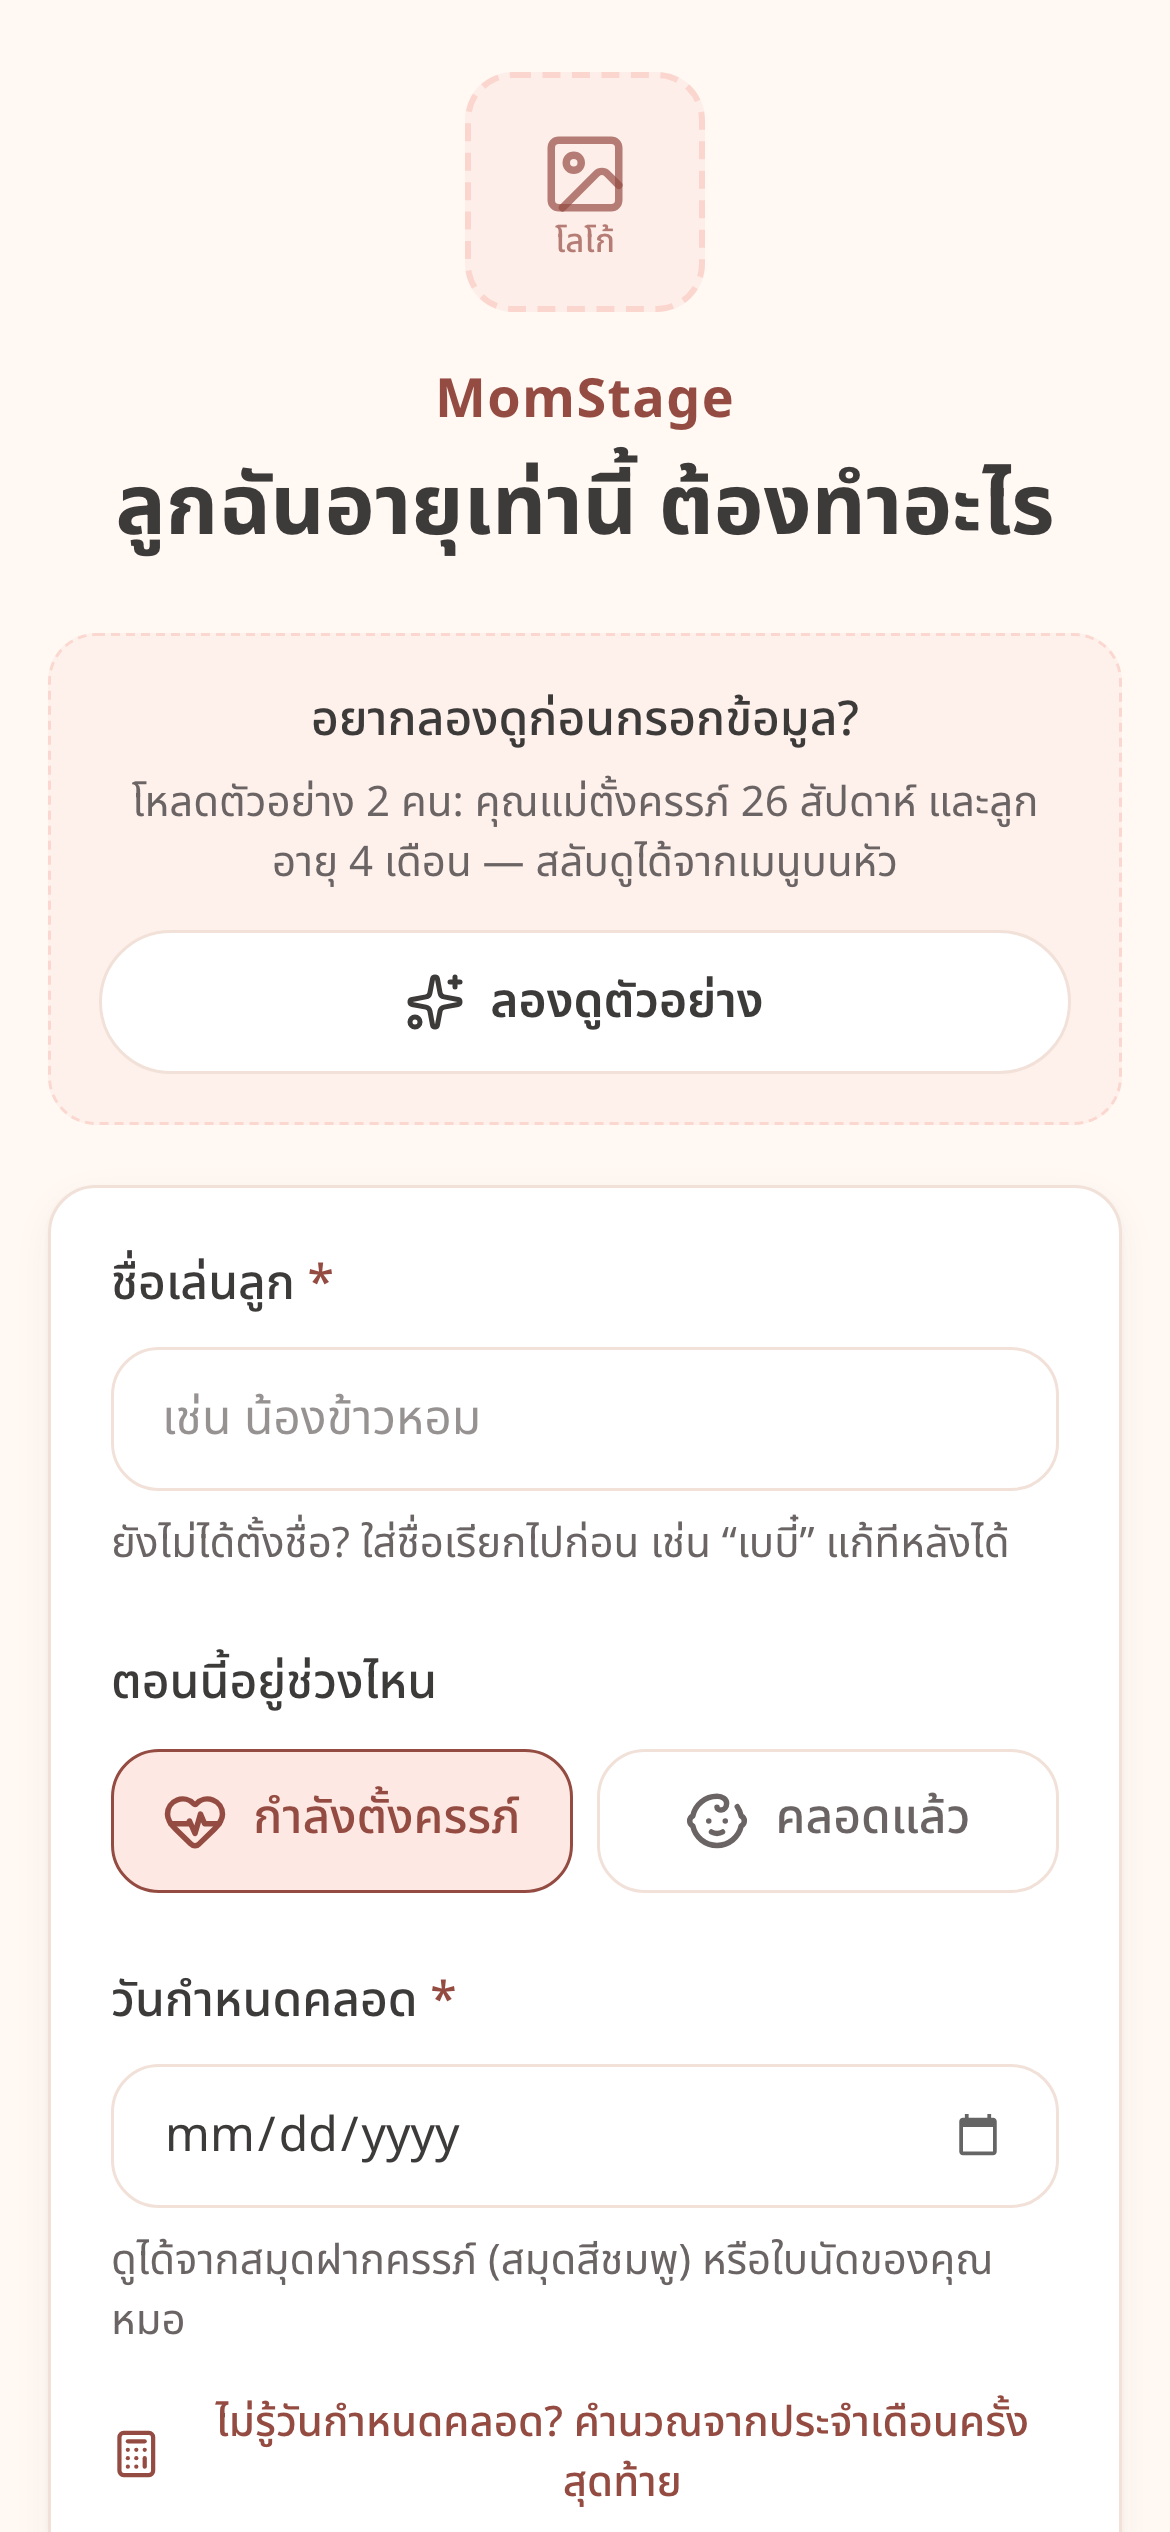
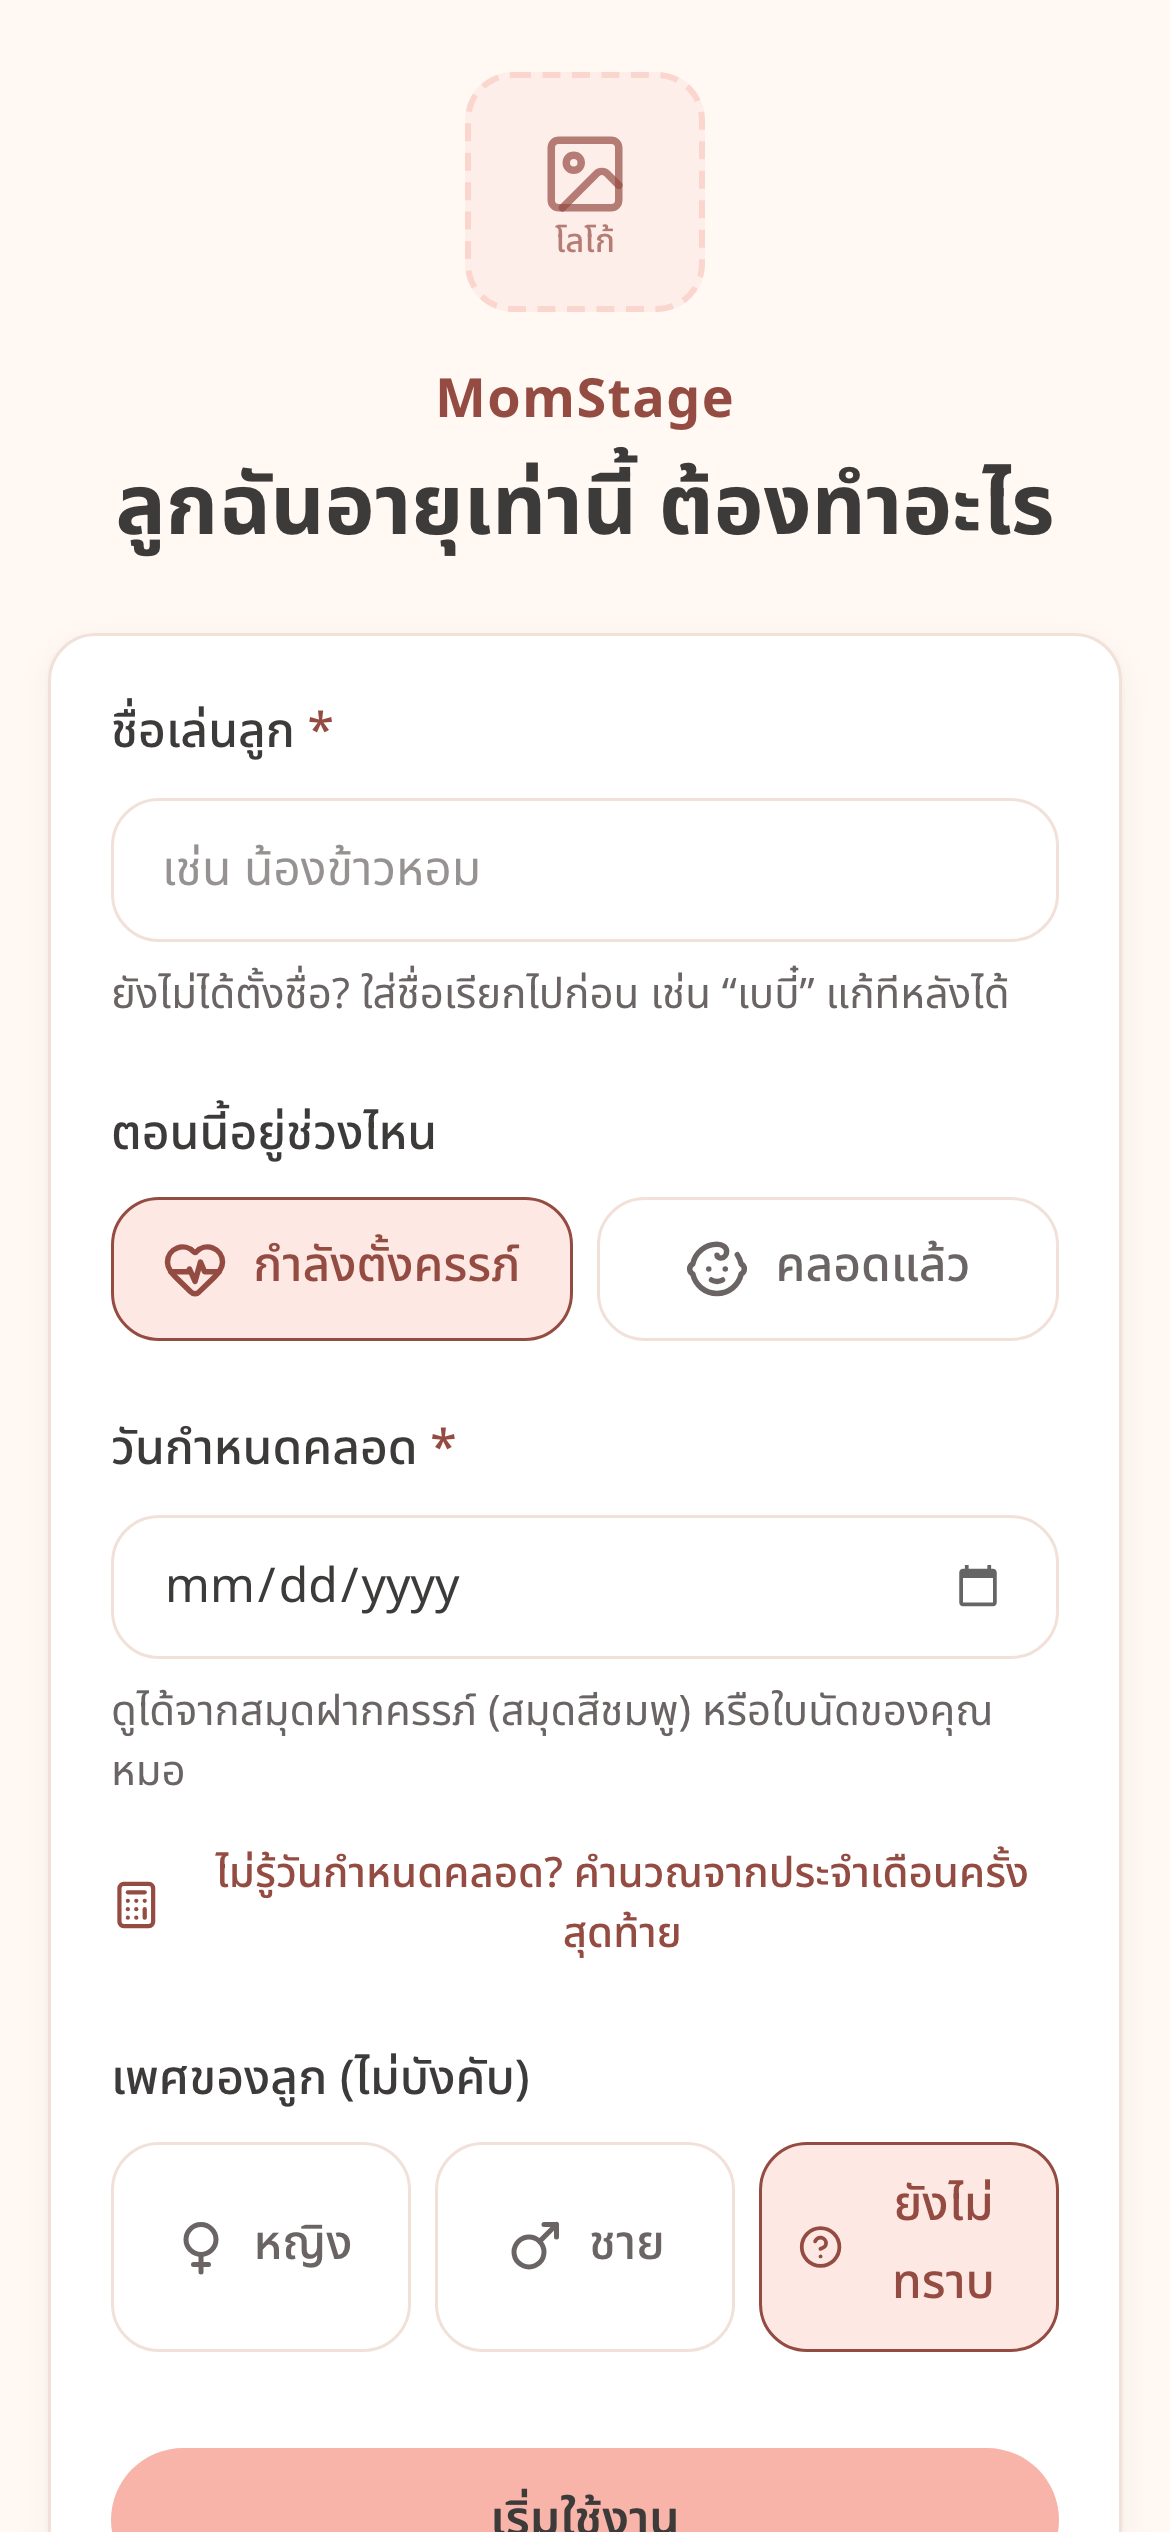
Remove the "try demo" button for real-world use
Demo children are now a test-only fixture: the smoke test and Playwright
seed them directly instead of through the onboarding button.

diff --git a/src/pages/OnboardingPage.tsx b/src/pages/OnboardingPage.tsx
@@ -2,15 +2,15 @@
  * หน้าแรกสำหรับผู้ใช้ใหม่: กรอกข้อมูลลูกครั้งเดียว แล้วแอปคำนวณทุกอย่างให้
  * ใช้ซ้ำสำหรับ "เพิ่มลูกคนถัดไป" ผ่าน /onboarding?add=1
  */
-import { ArrowLeftIcon, SparkleIcon } from '../components/icons'
+import { ArrowLeftIcon } from '../components/icons'
 import { Link, Navigate, useNavigate, useSearchParams } from 'react-router-dom'
 import { ChildForm } from '../components/ChildForm'
 import { Logo } from '../components/Logo'
-import { Button, Card } from '../components/ui'
+import { Card } from '../components/ui'
 import { useAppStore } from '../store/useAppStore'
 
 export default function OnboardingPage() {
-  const { children, addChild, loadDemo } = useAppStore()
+  const { children, addChild } = useAppStore()
   const navigate = useNavigate()
   const [params] = useSearchParams()
   const isAdding = params.get('add') === '1'
@@ -39,26 +39,6 @@ export default function OnboardingPage() {
           {isAdding ? 'เพิ่มลูกอีกคน' : 'ลูกฉันอายุเท่านี้ ต้องทำอะไร'}
         </h1>
       </header>
-
-      {children.length === 0 && (
-        <div className="mb-5 rounded-[var(--radius-card)] border border-dashed border-primary/40 bg-primary-soft/50 p-4 text-center">
-          <p className="font-medium">อยากลองดูก่อนกรอกข้อมูล?</p>
-          <p className="mt-1 text-sm text-ink-muted">
-            โหลดตัวอย่าง 2 คน: คุณแม่ตั้งครรภ์ 26 สัปดาห์ และลูกอายุ 4 เดือน — สลับดูได้จากเมนูบนหัว
-          </p>
-          <Button
-            variant="secondary"
-            className="mt-3 w-full"
-            onClick={() => {
-              loadDemo()
-              navigate('/', { replace: true })
-            }}
-          >
-            <SparkleIcon size={20} aria-hidden="true" />
-            ลองดูตัวอย่าง
-          </Button>
-        </div>
-      )}
 
       <Card>
         <ChildForm

diff --git a/e2e/helpers.ts b/e2e/helpers.ts
@@ -1,4 +1,5 @@
 import { expect, type Page } from '@playwright/test'
+import { createDemoChildren } from '../src/data/demo'
 
 export const STORAGE_KEY = 'momstage:v1'
 
@@ -9,10 +10,13 @@ export function isoDaysFromToday(days: number): string {
   return `${d.getFullYear()}-${pad(d.getMonth() + 1)}-${pad(d.getDate())}`
 }
 
-/** โหลดข้อมูลตัวอย่าง 2 คนผ่านปุ่มในหน้า onboarding (น้องมะลิ 4 เดือน = active, เบบี๋ข้าวหอม ตั้งครรภ์) */
+/** ใส่ข้อมูลตัวอย่าง 2 คนลง localStorage โดยตรง (น้องมะลิ 4 เดือน = active, เบบี๋ข้าวหอม ตั้งครรภ์) */
 export async function seedDemo(page: Page) {
+  const children = createDemoChildren(new Date()).map((c, i) => ({ ...c, id: `demo-${i}` }))
+  const state = { version: 1, children, activeChildId: children[0].id }
   await page.goto('/onboarding')
-  await page.getByRole('button', { name: 'ลองดูตัวอย่าง' }).click()
+  await page.evaluate(([key, value]) => localStorage.setItem(key, value), [STORAGE_KEY, JSON.stringify(state)] as const)
+  await page.goto('/')
   await expect(page).toHaveURL('/')
 }
 

diff --git a/src/store/useAppStore.ts b/src/store/useAppStore.ts
@@ -9,7 +9,6 @@
  * และอัปเดตพร้อมกันทันทีเมื่อมีการเปลี่ยนแปลง (รวมถึงเมื่อแก้ข้อมูลจากอีกแท็บ)
  */
 import { useSyncExternalStore } from 'react'
-import { createDemoChildren } from '../data/demo'
 import { DEFAULT_CALC_SETTINGS } from '../lib/babyCalc'
 import type { AppState, CalcSettings, CareType, Child, ExpenseEntry, ExtraExpense, GrowthEntry, QuizResult } from '../types'
 
@@ -233,12 +232,6 @@ const actions = {
       ...s,
       children: s.children.map((c) => (c.id === childId ? { ...c, careLog: c.careLog.filter((e) => e.id !== eventId) } : c)),
     }))
-  },
-
-  /** เพิ่มข้อมูลตัวอย่าง 2 คน (ใช้ตอน onboarding ปุ่ม "ลองดูตัวอย่าง") */
-  loadDemo(today: Date = new Date()) {
-    const demo = createDemoChildren(today).map((c) => normalizeChild({ ...c, id: createId() }))
-    setState((s) => ({ ...s, children: [...s.children, ...demo], activeChildId: demo[0].id }))
   },
 
   /** ล้างข้อมูลทั้งหมดของแอป */

diff --git a/src/data/demo.ts b/src/data/demo.ts
@@ -1,5 +1,5 @@
 /**
- * ข้อมูลตัวอย่างสำหรับปุ่ม "ลองดูตัวอย่าง" ในหน้า onboarding
+ * ข้อมูลตัวอย่างสำหรับการทดสอบเท่านั้น (smoke test และ Playwright) — ไม่มีในแอปจริง
  * คำนวณวันที่จาก "วันนี้" ทุกครั้ง เพื่อให้อายุตรงตามที่ตั้งใจไม่ว่าจะเปิดแอปวันไหน
  *
  *  1. น้องมะลิ — คลอดแล้ว อายุ 4 เดือน 12 วัน (บางวันไม่มีวันเกิดที่ให้ 12 วันพอดี จะได้ค่าที่ใกล้ที่สุด) (วัคซีน 4 เดือนกำลังถึงกำหนด, โรต้าเข็มแรกยังไม่ได้หยอด = เลยกำหนด)

diff --git a/README.md b/README.md
@@ -65,7 +65,7 @@ src/
 │   ├── nursingRoomsSeed.ts  จุดตั้งต้นห้องให้นม 19 จุด (ห้าง โรงพยาบาล สนามบิน ในกรุงเทพฯ)
 │   ├── names.ts          ชื่อไทย 162 ชื่อ (ชาย 82 / หญิง 80) พร้อมความหมาย
 │   ├── whoGrowth.ts      ค่า LMS รายเดือน WHO Child Growth Standards (น้ำหนัก/ส่วนสูง ชาย/หญิง 0–36 เดือน)
-│   └── demo.ts           ข้อมูลตัวอย่าง 2 คนสำหรับปุ่ม "ลองดูตัวอย่าง"
+│   └── demo.ts           ข้อมูลตัวอย่าง 2 คน ใช้เฉพาะในการทดสอบ
 ├── lib/                  ตรรกะล้วน ๆ ไม่มี UI — ทดสอบได้
 │   ├── age.ts            ★ สูตรคำนวณอายุครรภ์ / อายุลูก
 │   ├── age.test.ts       unit test ของ age.ts
@@ -250,7 +250,7 @@ src/
 ### 15. การเก็บข้อมูล — `src/store/useAppStore.ts`
 
 ทุกหน้าเรียกข้อมูลผ่าน `useAppStore()` ตัวเดียว ได้ `children`, `activeChild` และคำสั่ง
-`addChild`, `updateChild`, `removeChild`, `setActiveChild`, `setVaccineDate`, `toggleChecklistItem`, `addQuizResult`, `addGrowthEntry`, `removeGrowthEntry`, `toggleCare`, `removeCareEvent`, `updateCalcSettings`, `toggleFavoriteName`, `loadDemo`, `clearAll`
+`addChild`, `updateChild`, `removeChild`, `setActiveChild`, `setVaccineDate`, `toggleChecklistItem`, `addQuizResult`, `addGrowthEntry`, `removeGrowthEntry`, `toggleCare`, `removeCareEvent`, `updateCalcSettings`, `toggleFavoriteName`, `clearAll`
 ข้อมูลเก็บใน localStorage key `momstage:v1` — ถ้าจะย้ายไป Firebase แก้แค่ฟังก์ชัน `loadState` / `persist` ในไฟล์นี้
 
 ## ข้อมูลที่ยังรอตรวจสอบ (`verified: false`)
